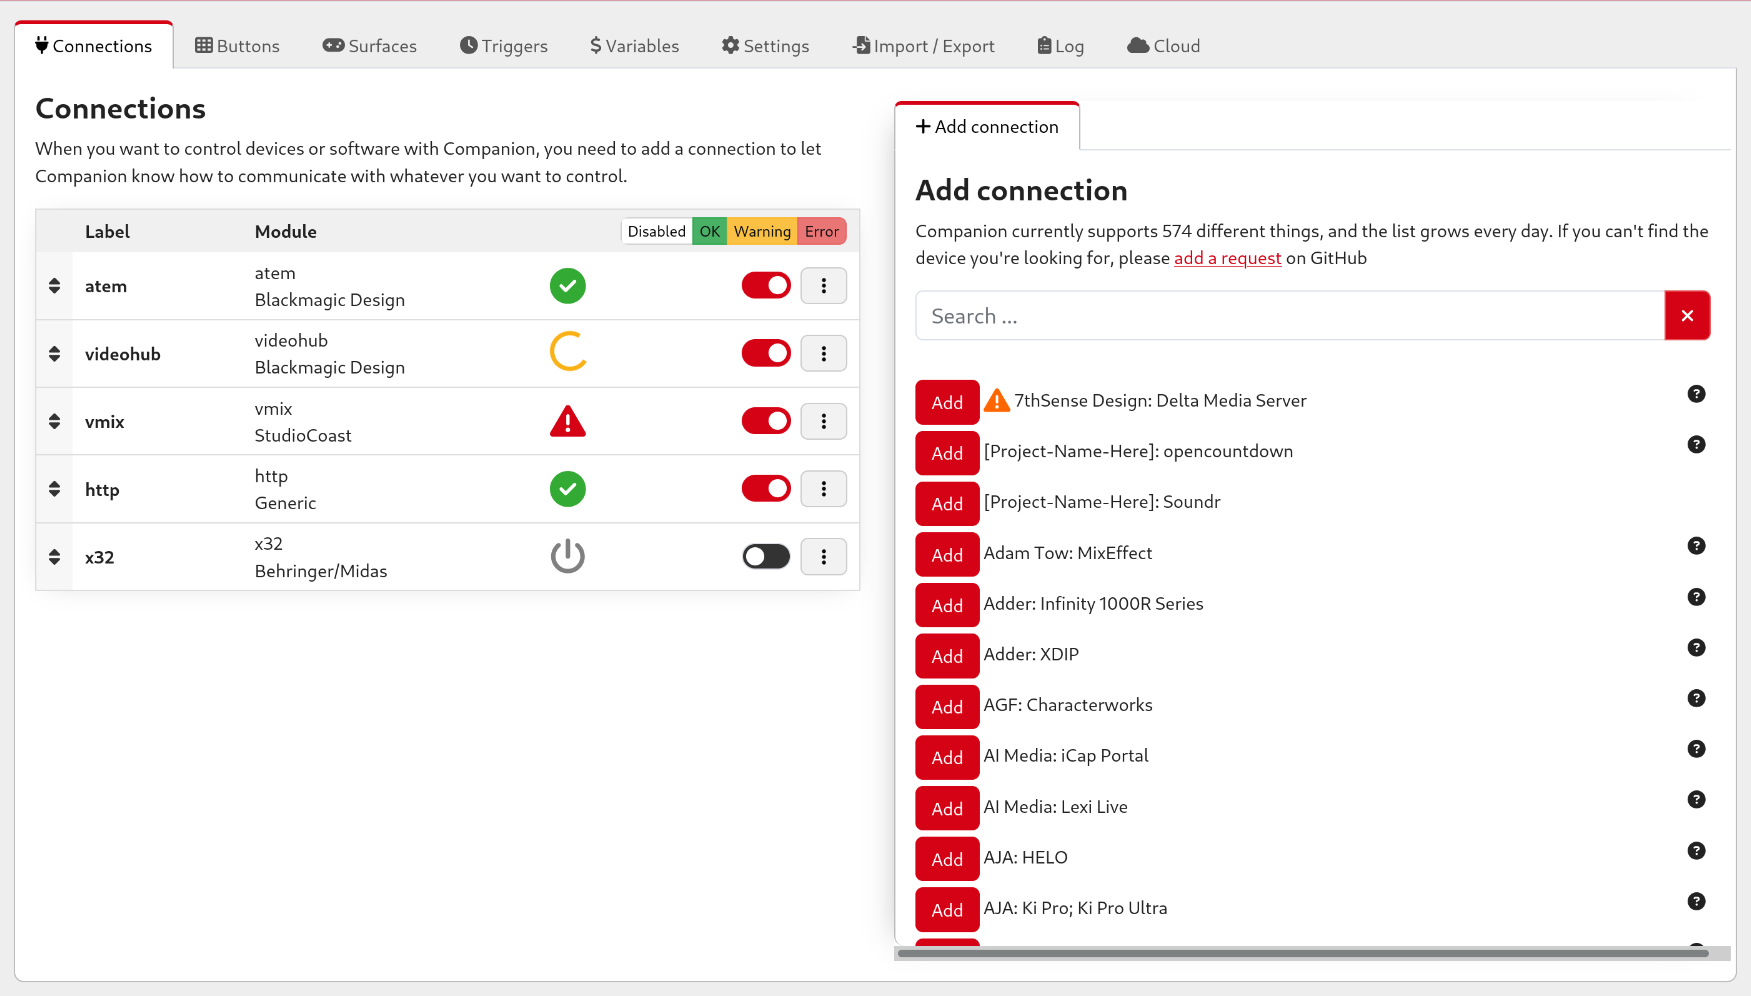
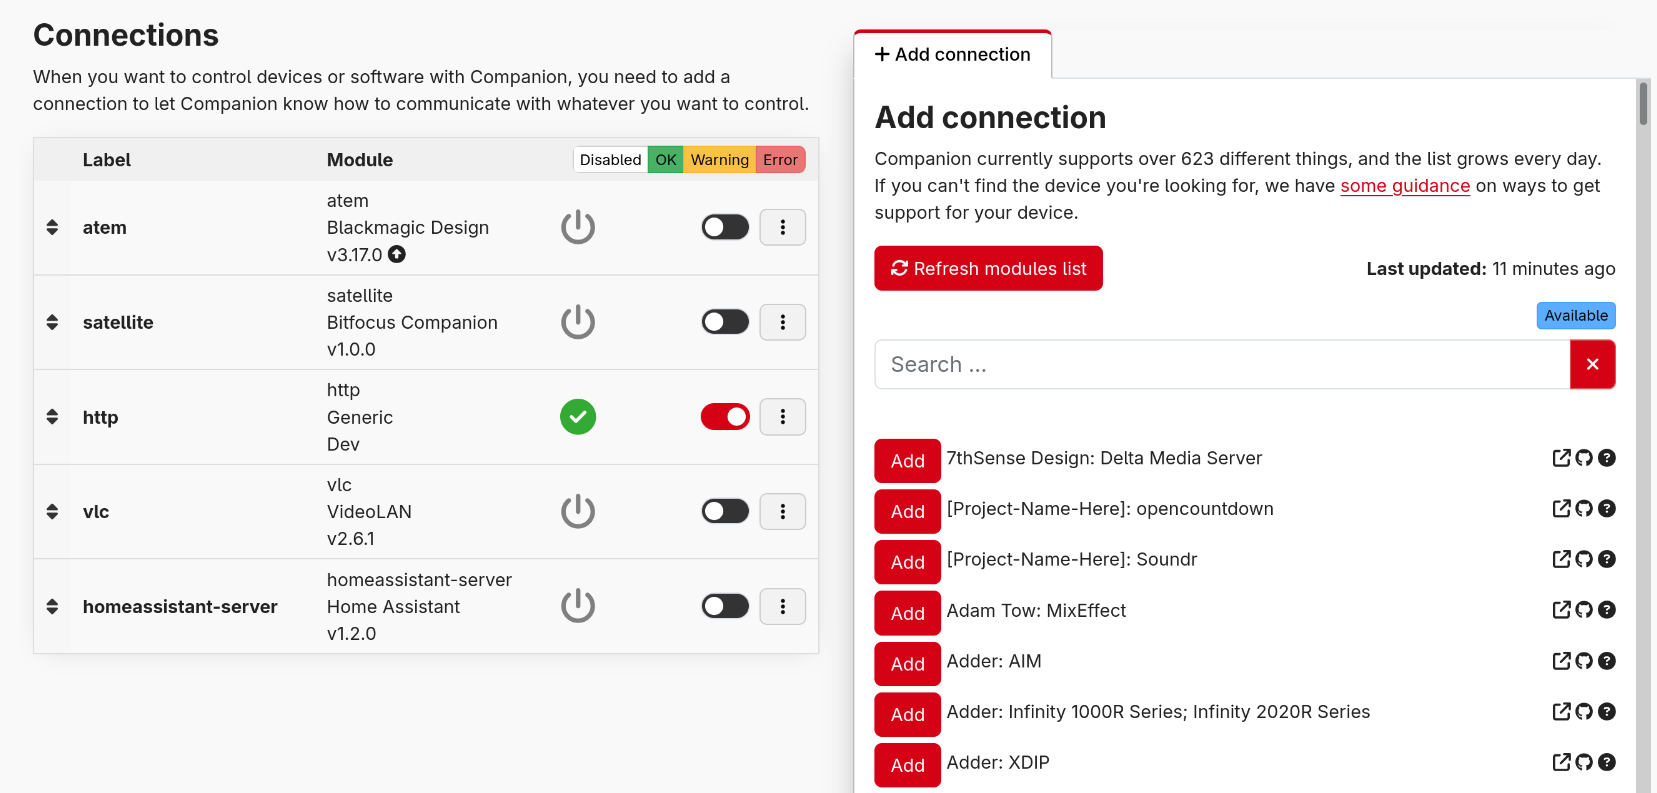
chore: update docs for managing connections

diff --git a/docs/3_config/connections.md b/docs/3_config/connections.md
@@ -2,24 +2,6 @@ From the Connections tab, you can add, configure and remove devices. You can als
 
 ![Connections Page](images/connection_list.png?raw=true 'Connections Page')
 
-In 3.0 the API used between the connections and Companion was overhauled, and this has resulted in some modules breaking. While a lot of the connections have been updated to fully use the new API, many haven't. Many connections which haven't been updated work just fine, but some unfortonately do not. This is indicated by the ⚠ symbol.
+In 4.0, the modules have been moved to be downloadable plugins. This allows you to get updates to modules much quicker and easier than before. As part of this, we do not distribute modules anymore with Companion.
 
-**To add a new device**
-
-1.  Add a new device, by scrolling though the list or through a search.
-2.  Choose the specific device you want to add.
-3.  Enter the connection information for device. Save the changes.
-
-Your new device should now show in the Connections tab along with all the other devices you want to control.
-Each device needs to be a separate connection. If you have two separate Barco E2, you need to add both of them as separate connections.
-
-Once you have added your connections, you can reorder or filter them in the table. In the rightmost column, you can expand a list of buttons:
-
-![Connections Popover](images/connection-popover.png?raw=true 'Connections Popover')
-
-- **Help** will open that module's help information. This is also possible in the list on the right before adding a connection.
-- **Known Issues** will take you to the GitHub page for the module. You should report any bugs you encounter with the module here, or any feature requests for missing functionality. Tip: The more detail you give on a bug or feature request, the more likely it is to be handled quickly.
-- **Variables** will show a list of all the variables that a connection provides. These can be used in various places either explained later on.
-- **View Logs** is a debug log for the module. When reporting a bug, module developers may want extra information from here to help figure out the bug. To most users this will not be interesting.
-
-A full list of supported devices can also be found on the website. [Companion Module Support List](https://bitfocus.io/connections)
+If you are on an offline system, the list of the right will likely be empty and you will need to download and import the offline module bundle from the website. You can read more about this in the [Modules section](#6_modules.md)

diff --git a/docs/3_config/connections/creating.md b/docs/3_config/connections/creating.md
@@ -1,0 +1,23 @@
+If you have not already installed a version of the module you need, you may need to toggle the list to show those which are available, not just those which are installed.
+
+1.  Add a new device, by scrolling through the list or through a search.
+2.  Choose the specific device you want to add.
+2.  Fill out the dialog to choose the version of the module to use. In this, you can always choose any installed versions, and if you are able to access the store it will offer to install the latest version.  
+    ![Connection Add dialog](images/connection-add-dialog.png)
+3.  Enter the connection information for device. Save the changes.
+
+Your new device should now show in the Connections tab along with all the other devices you want to control.
+Each device needs to be a separate connection. If you have two separate Barco E2, you need to add both of them as separate connections.
+
+Note: if you have multiple connections using the same module, they can now each be running different versions of the module.
+
+Once you have added your connections, you can reorder or filter them in the table. In the rightmost column, you can expand a list of buttons:
+
+![Connections Popover](images/connection-popover.png?raw=true 'Connections Popover')
+
+- **Help** will open that module's help information. This is also possible in the list on the right before adding a connection.
+- **Known Issues** will take you to the GitHub page for the module. You should report any bugs you encounter with the module here, or any feature requests for missing functionality. Tip: The more detail you give on a bug or feature request, the more likely it is to be handled quickly.
+- **Variables** will show a list of all the variables that a connection provides. These can be used in various places either explained later on.
+- **View Logs** is a debug log for the module. When reporting a bug, module developers may want extra information from here to help figure out the bug. To most users this will not be interesting.
+
+A full list of supported devices can also be found on the website. [Companion Module Support List](https://bitfocus.io/connections)

diff --git a/CHANGELOG.md b/CHANGELOG.md
@@ -5,10 +5,10 @@
 ### BREAKING CHANGES
 
 - Modules are now installable plugins
-  - They no longer ship with companion, you can either import an offline module bundle, or install them within companion from the store.
-  - This allows them to be updated independently
+  They no longer ship with companion, you can either import an offline module bundle, or install them within companion from the store.
+  This allows them to be updated independently
 - Support for the legacy xkeys layouts has been removed.
-- The new layouts have been the default behaviour since 3.2, and accurately reflect the real layout instead of trying to squeeze the layout into multipls 32 button pages.
+  The new layouts have been the default behaviour since 3.2, and accurately reflect the real layout instead of trying to squeeze the layout into multipls 32 button pages.
 
 ### 📣 CORE FEATURES AND IMPROVEMENTS
 

diff --git a/docs/3_config/connections/configuring.md b/docs/3_config/connections/configuring.md
@@ -1,0 +1,10 @@
+Once you have added a connection, you can click on it in the connection list to open its configuration in the right panel.
+
+When the connection is disabled, you will be able to configure the version of the module, and some other basic properties. 
+![Connection config when disabled](images/configure-disabled.png)
+
+In case you need it, you are able to force a connection to use a different module. This should not be needed for normal use, it is an escape hatch for edge cases we haven't thought of.
+
+When the connection is enabled, you will be able to configure the module defined configuration.
+
+![Connection config when enabled](images/configure-enabled.png)
